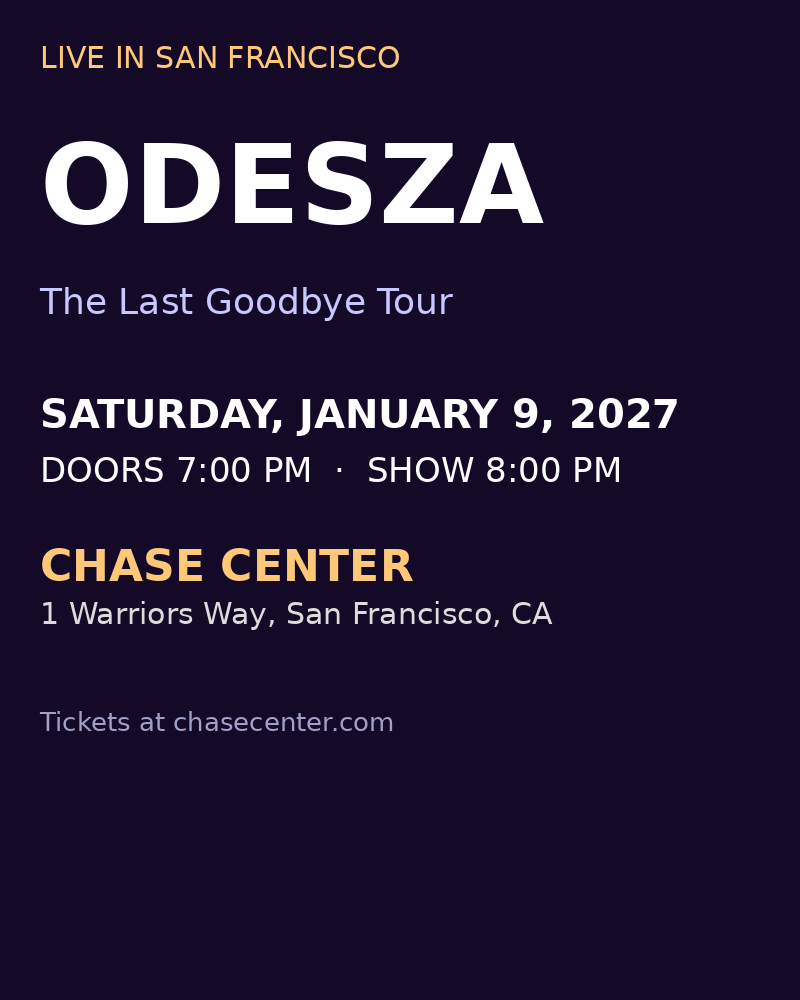
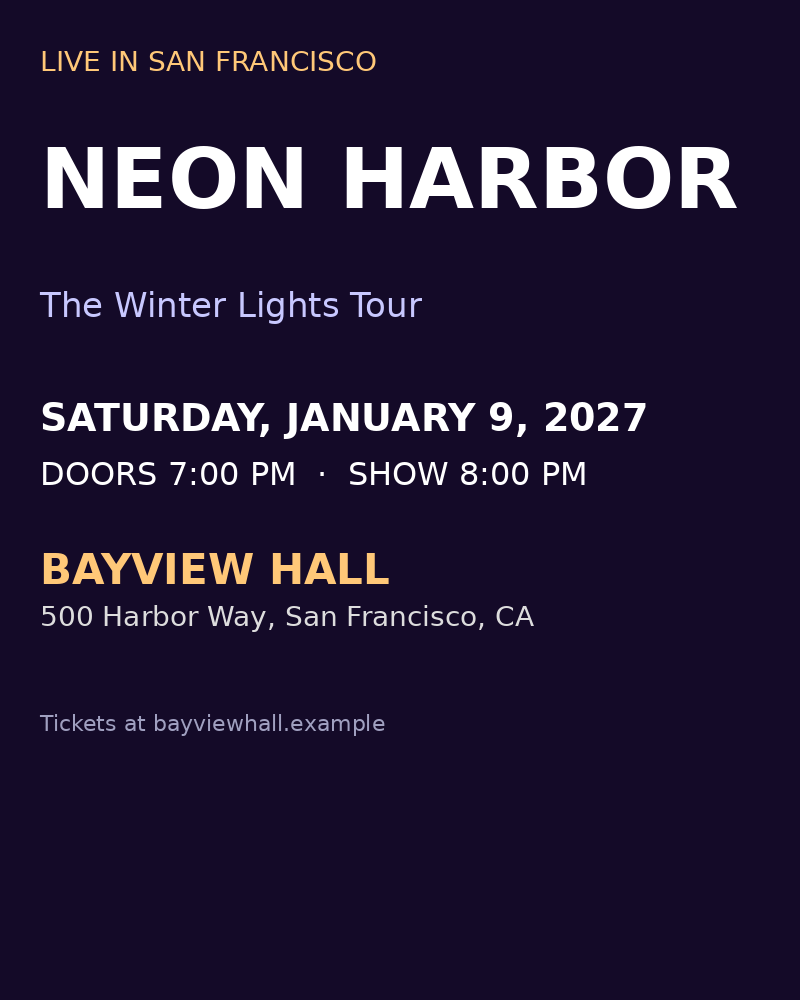
Swap real SF businesses for made-up ones in tests and eval images
The photo eval images and place tests keep their San Francisco setting,
with fictional shop, venue and band names in place of real ones.

Claude-Session: https://claude.ai/code/session_01NpPN23wRmb1EQWxJW59SVS

diff --git a/src/modules/assistant/check.ts b/src/modules/assistant/check.ts
@@ -596,7 +596,7 @@ check('web search is localised to home', search.user_location?.city === 'Springf
     name,
     note ?? '',
   ];
-  const payload = `)]}'\n${JSON.stringify([[null, null, null, null, 'Dessert', null, null, null, [entry('Tartine Bakery', '600 Guerrero St, SF', 37.7614, -122.4241, 'morning bun'), entry('Bi-Rite Creamery', '3692 18th St, SF', 37.7616, -122.4257)]]])}`;
+  const payload = `)]}'\n${JSON.stringify([[null, null, null, null, 'Dessert', null, null, null, [entry('Sunrise Bakery', '600 Guerrero St, SF', 37.7614, -122.4241, 'morning bun'), entry('Scoop Creamery', '3692 18th St, SF', 37.7616, -122.4257)]]])}`;
   const parsed = parseListResponse(payload);
   check('shared list: title and places parsed', parsed.title === 'Dessert' && parsed.places.length === 2, JSON.stringify(parsed.places[0]));
   check('shared list: coordinates, address, note, cid', parsed.places[0]!.location?.lat === 37.7614 && parsed.places[0]!.note === 'morning bun' && parsed.places[0]!.cid === '0x80858:0x1a2b' && !parsed.places[1]!.note);
@@ -626,9 +626,9 @@ check('web search is localised to home', search.user_location?.city === 'Springf
     const places = new SavedPlaces({ file: join(pdir, 'places.json'), listUrls: [] });
     places.store.data.lists = [{ url: 'u1', name: 'Dessert' }, { url: 'u2', name: 'Bars' }];
     places.store.data.places = [
-      { key: 'c1', list: 'Dessert', name: 'Tartine Bakery', location: { lat: 37.7614, lng: -122.4241 }, note: 'morning bun', source: 'list', details: hours },
-      { key: 'c2', list: 'Dessert', name: 'Bi-Rite Creamery', location: { lat: 37.7616, lng: -122.4257 }, source: 'list' },
-      { key: 'c3', list: 'Bars', name: 'Trick Dog', location: { lat: 37.759, lng: -122.4114 }, source: 'list', details: { ...hours, periods: [] } },
+      { key: 'c1', list: 'Dessert', name: 'Sunrise Bakery', location: { lat: 37.7614, lng: -122.4241 }, note: 'morning bun', source: 'list', details: hours },
+      { key: 'c2', list: 'Dessert', name: 'Scoop Creamery', location: { lat: 37.7616, lng: -122.4257 }, source: 'list' },
+      { key: 'c3', list: 'Bars', name: 'Lantern Bar', location: { lat: 37.759, lng: -122.4114 }, source: 'list', details: { ...hours, periods: [] } },
       { key: 'chat-1', list: 'Dessert', name: 'Dandelion Chocolate', location: { lat: 37.7609, lng: -122.4214 }, source: 'chat' },
     ];
     // "home" and a named area resolve from the remembered geocodes; no API here.
@@ -649,18 +649,18 @@ check('web search is localised to home', search.user_location?.city === 'Springf
     check('a full page says how to get the next', page1.includes('offset 1'), page1);
     const page2 = await find({ limit: 1, offset: 1 });
     check('offset pages on without repeating', !page2.includes(page1.split(' · ')[0]!) && page2.includes('offset 2'), page2);
-    const rest = await find({ exclude: ['tartine', 'BI-RITE'] });
-    check('exclude drops visited names', !rest.includes('Tartine') && !rest.includes('Bi-Rite') && rest.includes('Trick Dog'), rest);
+    const rest = await find({ exclude: ['sunrise', 'SCOOP'] });
+    check('exclude drops visited names', !rest.includes('Sunrise') && !rest.includes('Scoop') && rest.includes('Lantern Bar'), rest);
     check('offset past the end says so', (await find({ offset: 50 })).startsWith('Nothing past 50'));
 
     const dessert = await find({ list: 'des' });
-    check('a list prefix picks the list', dessert.includes('Tartine') && !dessert.includes('Trick Dog'), dessert);
-    check('the owner\'s note is searchable', (await find({ text: 'bun' })).startsWith('Tartine Bakery'));
+    check('a list prefix picks the list', dessert.includes('Sunrise') && !dessert.includes('Lantern Bar'), dessert);
+    check('the owner\'s note is searchable', (await find({ text: 'bun' })).startsWith('Sunrise Bakery'));
     const near = await find({ near: 'Mission Dolores', within_miles: 0.25 });
-    check('near a place: nearest first, radius applied', near.split('\n')[1]?.startsWith('Bi-Rite') === true && !near.includes('Trick Dog'), near);
+    check('near a place: nearest first, radius applied', near.split('\n')[1]?.startsWith('Scoop') === true && !near.includes('Lantern Bar'), near);
     check('distances are shown in miles', / \d+\.\d mi · /.test(near) && !near.includes(' km'), near);
     const open = await find({ open_now: true });
-    check('open now keeps only known-open spots and counts the unknown', open.includes('Tartine') && !open.includes('Bi-Rite') && open.includes('3 matching places left out'), open);
+    check('open now keeps only known-open spots and counts the unknown', open.includes('Sunrise') && !open.includes('Scoop') && open.includes('3 matching places left out'), open);
     check('removing a Google list entry is refused', fail('places_remove', { key: 'c1' }).includes('remove it there'));
     await tools.get('places_remove')!.run({ key: 'chat-1' });
     check('a chat-added place can be removed', !new SavedPlaces({ file: join(pdir, 'places.json'), listUrls: [] }).places().some((p) => p.key === 'chat-1'));
@@ -673,11 +673,11 @@ check('web search is localised to home', search.user_location?.city === 'Springf
     const sf = { lat: 37.7749, lng: -122.4194 };
     const fakeHit = (name: string, location: { lat: number; lng: number }) => ({ name, address: name, location, details: { placeId: name, fetchedAt: '' } });
     const withApi = places as unknown as { api?: { find: (q: string) => Promise<unknown> } };
-    withApi.api = { find: async (q) => (q.startsWith('F1rst') ? fakeHit('The F1rst Take, Salem', { lat: 37.3382, lng: -121.8863 }) : fakeHit('Bar Shoji, New Montgomery', { lat: 37.7867, lng: -122.3998 })) };
+    withApi.api = { find: async (q) => (q.startsWith('F1rst') ? fakeHit('The F1rst Take, Salem', { lat: 37.3382, lng: -121.8863 }) : fakeHit('Bar Hikari, New Montgomery', { lat: 37.7867, lng: -122.3998 })) };
     const farMatch = await places.add('Bars', 'F1rst Take', sf).then(() => '', (err: Error) => err.message);
     check('a match far from the area asked for is not saved', farMatch.startsWith('Not saved') && farMatch.includes('Salem') && !places.places().some((p) => p.name.includes('F1rst')), farMatch);
-    const nearMatch = await places.add('Bars', 'Shoji', sf);
-    check('a match in the area asked for is saved', nearMatch.name.startsWith('Bar Shoji'));
+    const nearMatch = await places.add('Bars', 'Hikari', sf);
+    check('a match in the area asked for is saved', nearMatch.name.startsWith('Bar Hikari'));
     // Seen in #travel, Nov 18: "check locations on each of those" had only web search, and three shops stayed unfound.
     const lookupApi = places as unknown as { api?: { lookup: (q: string) => Promise<unknown[]> } };
     lookupApi.api = {
@@ -1024,7 +1024,7 @@ check('web search is localised to home', search.user_location?.city === 'Springf
 
     const log = new ActivityLog(adir, LA);
     // 23:30 PST on the 14th and 00:30 PST on the 15th land in different files.
-    log.record({ at: '2026-11-15T07:30:00Z', kind: 'reply', outcome: 'ok', channel: 'food', ask: 'save tartine to dessert', tools: ['places_add'], usage: { ...noUsage('claude-haiku-5-5'), input: 20_000 } });
+    log.record({ at: '2026-11-15T07:30:00Z', kind: 'reply', outcome: 'ok', channel: 'food', ask: 'save sunrise to dessert', tools: ['places_add'], usage: { ...noUsage('claude-haiku-5-5'), input: 20_000 } });
     log.record({ at: '2026-11-15T08:30:00Z', kind: 'reply', outcome: 'error', channel: 'travel', ask: 'what time is my flight', error: 'overloaded', messageId: '123' });
     const trace = newTrace();
     traceTools(trace, [{ name: 'fetch_page', content: 'HTTP 403 Forbidden', isError: true }, { name: 'recall', content: 'ok' }]);
@@ -1039,7 +1039,7 @@ check('web search is localised to home', search.user_location?.city === 'Springf
     log.prune(new Date('2027-06-01T00:00:00Z'));
     check('activity: old days are pruned', (await import('node:fs')).readdirSync(adir).length === 0);
 
-    const all = [...back, { at: '2026-11-15T07:30:00Z', kind: 'reply' as const, outcome: 'ok', channel: 'food', ask: 'save tartine', costUsd: 0.002 }];
+    const all = [...back, { at: '2026-11-15T07:30:00Z', kind: 'reply' as const, outcome: 'ok', channel: 'food', ask: 'save sunrise', costUsd: 0.002 }];
     const usage = usageSummary(all, LA, 7);
     check('/usage: total, per day and priciest', usage.includes('last 7 days') && usage.includes('2026-11-15') && usage.includes('task "Kyoto hotels"'), usage);
     const digest = reviewDigest(

diff --git a/src/modules/assistant/vault.check.ts b/src/modules/assistant/vault.check.ts
@@ -32,8 +32,8 @@ const temp = () => new Vault(mkdtempSync(join(tmpdir(), 'squire-vault-')));
 {
   const vault = temp();
   try {
-    vault.write('Cafes/Blue Bottle.md', 'Good pour-over.\n');
-    vault.write('Cafes/Verve.md', '---\ntype: favourite\n---\nMine.\n');
+    vault.write('Cafes/Fogline.md', 'Good pour-over.\n');
+    vault.write('Cafes/Ridge Coffee.md', '---\ntype: favourite\n---\nMine.\n');
     vault.write('Travel/Japan/Tokyo food.md', 'Places to eat.\n');
     vault.write('Travel/Japan/Japan itinerary v2.md', '---\ntrip: somewhere else\n---\nDay 1.\n');
     vault.write('Travel/Chicago/Chicago.md', '# Chicago\n\nMy hub.\n');
@@ -48,8 +48,8 @@ const temp = () => new Vault(mkdtempSync(join(tmpdir(), 'squire-vault-')));
     const plan = planMigration(vault, LA);
     const lines = plan.map(describe);
     check('the migration is a dry run until applied', vault.list().every((p) => before.some(([b, t]) => b === p && t === vault.read(p))) && vault.list().length === before.length);
-    check('folders give a missing type', lines.some((l) => l.includes('Cafes/Blue Bottle.md: type: place, category: cafe')) && lines.some((l) => l.includes('proj-ideas/Squire.md: type: project')), lines.join('\n'));
-    check('a type the owner set is left alone', !lines.some((l) => l.includes('Cafes/Verve.md')));
+    check('folders give a missing type', lines.some((l) => l.includes('Cafes/Fogline.md: type: place, category: cafe')) && lines.some((l) => l.includes('proj-ideas/Squire.md: type: project')), lines.join('\n'));
+    check('a type the owner set is left alone', !lines.some((l) => l.includes('Cafes/Ridge Coffee.md')));
     check('trip notes link to their trip, unless set', lines.some((l) => l === 'add fields  Travel/Japan/Tokyo food.md: trip: [[Travel/Japan/Japan]]') && !lines.some((l) => l.includes('itinerary v2.md: trip')));
     check('a trip without a hub gets one, an existing hub only a type', lines.some((l) => l === 'create      Travel/Japan/Japan.md (index note)') && lines.some((l) => l === 'add fields  Travel/Chicago/Chicago.md: type: trip') && !lines.some((l) => l.startsWith('create      Travel/Chicago/Chicago.md')));
     check('typed loose notes move home, with a redirect if path-linked', lines.includes('move        notes/Jane.md -> People/Jane.md') && lines.some((l) => l.startsWith('move        notes/Bob.md -> People/Bob.md (redirect')));
@@ -57,10 +57,10 @@ const temp = () => new Vault(mkdtempSync(join(tmpdir(), 'squire-vault-')));
     const hub = plan.find((c) => c.kind === 'create' && c.path === 'Travel/Japan/Japan.md');
     check('the hub has a versions table', !!hub && hub.kind === 'create' && hub.content.includes('| [[Travel/Japan/Japan itinerary v2]] | v2 |') && hub.content.includes('type: trip'), hub && 'content' in hub ? hub.content : '');
 
-    vault.write('Cafes/Blue Bottle.md', '---\ncategory: bakery\n---\nGood pour-over.\n');
+    vault.write('Cafes/Fogline.md', '---\ncategory: bakery\n---\nGood pour-over.\n');
     const { done, skipped, log } = applyMigration(vault, plan, LA);
-    const bb = noteFields(vault.read('Cafes/Blue Bottle.md')!);
-    check('apply re-checks fields the owner set since', bb.type === 'place' && bb.category === 'bakery' && vault.read('Cafes/Blue Bottle.md')!.endsWith('Good pour-over.\n'));
+    const bb = noteFields(vault.read('Cafes/Fogline.md')!);
+    check('apply re-checks fields the owner set since', bb.type === 'place' && bb.category === 'bakery' && vault.read('Cafes/Fogline.md')!.endsWith('Good pour-over.\n'));
     check('apply moves and leaves redirects', vault.read('People/Jane.md') !== undefined && vault.read('notes/Jane.md') === undefined && noteFields(vault.read('notes/Bob.md') ?? '').type === 'redirect');
     check('apply keeps bodies and writes a log', vault.read('Travel/Japan/Tokyo food.md')!.endsWith('Places to eat.\n') && !!vault.read(log)?.includes('Ontology migration') && vault.read(ONTOLOGY_NOTE) !== undefined, `${done.length} done, ${skipped.join('; ')}`);
     const again = planMigration(vault, LA).map(describe);

diff --git a/src/modules/assistant/factory.check.ts b/src/modules/assistant/factory.check.ts
@@ -160,7 +160,7 @@ const gen = (calls: ToolCall[]): Generation => ({ stop: calls.length ? 'tool_use
         models.push({ model: m.model, effort: m.effort });
         systems.push(req.system);
         if (req.tools.some((t) => t.name === 'verdict')) return gen([{ id: 'v', name: 'verdict', input: { items: [{ pass: true, why: 'says so' }, { pass: false, why: 'made up a total' }] } }]);
-        return gen([{ id: 'f', name: 'finish_task', input: { outcome: 'done', report: 'Logged $12.50 at Blue Bottle.' } }]);
+        return gen([{ id: 'f', name: 'finish_task', input: { outcome: 'done', report: 'Logged $12.50 at Fogline.' } }]);
       },
     };
     const runner = new TaskRunner(new TaskStore(join(dir, 'tasks.json')), { llm: fake, model: 'big', fastModel: 'small', effort: 'low', timeZone: LA, reminders: new ReminderStore(join(dir, 'r.json'), LA), vault });
@@ -298,11 +298,11 @@ const gen = (calls: ToolCall[]): Generation => ({ stop: calls.length ? 'tool_use
         seenTools.push(req.tools.map((t) => t.name).join());
         const img = req.turns[0]?.role === 'user' ? (req.turns[0].content.find((x) => x.type === 'image') as { url: string; data?: string } | undefined) : undefined;
         const url = img?.data ? img.url : '';
-        if (url.includes('Coffee receipt')) return gen([{ id: 'e', name: 'log_expense', input: { date: '2026-11-18', merchant: 'Philz Coffee', amount: 20.38, currency: 'USD', category: 'dining', note: '' } }]);
-        if (url.includes('Ramen menu')) return req.turns.length === 1 ? gen([{ id: 'l', name: 'places_lists', input: {} }]) : gen([{ id: 'a', name: 'places_add', input: { query: 'Mensho Tokyo, 672 Geary St' } }]);
-        if (url.includes('Concert flyer')) return gen([{ id: 'n', name: 'save_note', input: { title: 'ODESZA', content: 'Jan 9', mode: 'create', folder: 'Squire/Inbox', sources: [] } }]);
+        if (url.includes('Coffee receipt')) return gen([{ id: 'e', name: 'log_expense', input: { date: '2026-11-18', merchant: 'Fogline Coffee', amount: 20.38, currency: 'USD', category: 'dining', note: '' } }]);
+        if (url.includes('Ramen menu')) return req.turns.length === 1 ? gen([{ id: 'l', name: 'places_lists', input: {} }]) : gen([{ id: 'a', name: 'places_add', input: { query: 'Noodle Lantern, 450 Polk St' } }]);
+        if (url.includes('Concert flyer')) return gen([{ id: 'n', name: 'save_note', input: { title: 'NEON HARBOR', content: 'Jan 9', mode: 'create', folder: 'Squire/Inbox', sources: [] } }]);
         if (url.includes('Recipe card')) return gen([{ id: 'r', name: 'save_note', input: { title: 'Banana Bread', content: '- 1/2 cup butter', mode: 'create', folder: 'Recipes/Pastries', sources: ['owner'] } }]);
-        return { ...gen([]), text: 'A night market at Pier 39 on Fridays. Which Friday should I add?' };
+        return { ...gen([]), text: 'A night market at Harbor Plaza on Fridays. Which Friday should I add?' };
       },
     };
     for (const p of vault.list('Factory/Evals/photo')) if (/Gym whiteboard/.test(p)) rmSync(vault.abs(p));

diff --git a/src/modules/assistant/photoEvals.ts b/src/modules/assistant/photoEvals.ts
@@ -96,9 +96,9 @@ type Seed = { name: string; fields: Record<string, unknown>; why: string };
  * tip, ask when the date can't be read). Real photos can be added beside them.
  */
 export const PHOTO_CASES: Seed[] = [
-  { name: 'Concert flyer', why: 'An event flyer goes on the calendar at doors time (the owner\'s preference), with the venue as the location.', fields: { input: 'Concert flyer.png', expect_tool: 'calendar_create_event', expect: ['odesza', '2027-01-09', '19:00', 'chase center'] } },
-  { name: 'Coffee receipt', why: 'A receipt is logged at the total paid, tax and tip included, on the receipt\'s date.', fields: { input: 'Coffee receipt.png', expect_tool: 'log_expense', expect: ['philz', '20.38', '2026-11-18'] } },
-  { name: 'Ramen menu', why: 'A menu with an address is a place to save, not a note.', fields: { input: 'Ramen menu.png', expect_tool: 'places_add', expect: ['mensho'] } },
+  { name: 'Concert flyer', why: 'An event flyer goes on the calendar at doors time (the owner\'s preference), with the venue as the location.', fields: { input: 'Concert flyer.png', expect_tool: 'calendar_create_event', expect: ['neon harbor', '2027-01-09', '19:00', 'bayview hall'] } },
+  { name: 'Coffee receipt', why: 'A receipt is logged at the total paid, tax and tip included, on the receipt\'s date.', fields: { input: 'Coffee receipt.png', expect_tool: 'log_expense', expect: ['fogline', '20.38', '2026-11-18'] } },
+  { name: 'Ramen menu', why: 'A menu with an address is a place to save, not a note.', fields: { input: 'Ramen menu.png', expect_tool: 'places_add', expect: ['noodle lantern'] } },
   { name: 'Recipe card', why: 'A recipe card is transcribed into Recipes with its own measurements.', fields: { input: 'Recipe card.png', expect_tool: 'save_note', expect: ['recipes', 'banana bread', '1/3 cup'] } },
   { name: 'Gym whiteboard', why: 'Sets on a whiteboard are logged one call per set, at the weights shown.', fields: { input: 'Gym whiteboard.png', expect_tool: 'training_log_set', expect: ['squat', '225'] } },
   { name: 'Poster with no date', why: '"If the date or time can\'t be read, ask for just that instead of guessing": a weekly market with no date.', fields: { input: 'Market poster.png', expect_tool: 'none', expect: [] } },

diff --git a/src/modules/assistant/codeEvals.ts b/src/modules/assistant/codeEvals.ts
@@ -178,7 +178,7 @@ const INBOX_CASES: Seed[] = [
   { name: 'Ticket transferred away', why: 'A ticket the owner sent to a friend should come off the calendar.', fields: { today: '2026-11-17', input: '[1] Subject: Transfer Accepted\nYou transferred 1 ticket for Spring Esports Showdown (Dec 5, 2026, 7:00 PM, Ontario, CA) to Taylor. Taylor has accepted the transfer.', expect_events: [], expect_cancelled: ['Esports Showdown @ 2026-12-05'] } },
   { name: 'Times in UTC', why: 'An event listed in UTC must be converted, not put on the calendar 8 hours off.', fields: { today: '2026-11-15', input: '[1] Subject: Registration confirmed: Hack Night\nYou\'re registered for Hack Night at the Convention Center, Portland. Wednesday Nov 18, 2026, 3:00 AM UTC – 6:00 AM UTC.', expect_events: ['Hack Night @ 2026-11-17T19:00'], expect_cancelled: [] } },
   { name: 'Coming-up reminder', why: '"Your event is coming up" reminders repeat orders that may have been refunded.', fields: { today: '2026-11-19', input: '[1] Subject: Your event is coming up!\nDon\'t forget: The Midnight Owls at Riverside Hall, Friday Nov 27. Get ready!', expect_events: [], expect_cancelled: [] } },
-  { name: 'Rescheduled show', why: 'The prompt says to cancel the old date and add the new one.', fields: { today: '2026-11-10', input: '[1] Subject: Date change for your tickets\nThe Odesza show at Chase Center on Nov 21, 2026 has been rescheduled to Saturday, January 9, 2027 at 8:00 PM. Your tickets are valid for the new date.', expect_events: ['Odesza @ 2027-01-09T20:00'], expect_cancelled: ['Odesza @ 2026-11-21'] } },
+  { name: 'Rescheduled show', why: 'The prompt says to cancel the old date and add the new one.', fields: { today: '2026-11-10', input: '[1] Subject: Date change for your tickets\nThe Neon Harbor show at Bayview Hall on Nov 21, 2026 has been rescheduled to Saturday, January 9, 2027 at 8:00 PM. Your tickets are valid for the new date.', expect_events: ['Neon Harbor @ 2027-01-09T20:00'], expect_cancelled: ['Neon Harbor @ 2026-11-21'] } },
 ];
 
 /** The brief cases: generic days, each aimed at a wording rule. */

diff --git a/src/modules/assistant/features.check.ts b/src/modules/assistant/features.check.ts
@@ -88,10 +88,10 @@ try {
   {
     const vault = new Vault(mkdtempSync(join(dir, 'exp-')));
     const path = appendExpense(vault, { date: '2026-11-18', merchant: 'Trader Joe|s', amount: 42.5, currency: 'USD', category: 'groceries', note: '' });
-    appendExpense(vault, { date: '2026-11-19', merchant: 'Tartine', amount: 18, currency: 'usd', category: 'dining', note: 'with Chris' });
+    appendExpense(vault, { date: '2026-11-19', merchant: 'Sunrise', amount: 18, currency: 'usd', category: 'dining', note: 'with Chris' });
     const note = vault.read(path) ?? '';
     check('expenses: one note per month', path === 'Finance/Expenses/2026-11.md', path);
-    check('expenses: header once, a row each', note.split('| Date |').length === 2 && note.includes('| 2026-11-18 | Trader Joe/s | $42.50 | groceries |') && note.includes('| 2026-11-19 | Tartine | $18.00 | dining | with Chris |'), note);
+    check('expenses: header once, a row each', note.split('| Date |').length === 2 && note.includes('| 2026-11-18 | Trader Joe/s | $42.50 | groceries |') && note.includes('| 2026-11-19 | Sunrise | $18.00 | dining | with Chris |'), note);
     const [tool] = expenseTools(vault, LA, () => new Date('2026-12-02T20:00:00Z'));
     const out = String(await tool!.run({ date: '', merchant: 'Shell', amount: 61.2, currency: 'USD', category: 'transport', note: '' }));
     check('expenses: no date means today, in a new month', out.includes('2026-12.md') && (vault.read('Finance/Expenses/2026-12.md') ?? '').includes('| 2026-12-02 | Shell | $61.20 |'), out);

diff --git a/src/modules/assistant/placesTools.ts b/src/modules/assistant/placesTools.ts
@@ -172,7 +172,7 @@ export function placesTools(
         input_schema: {
           type: 'object',
           properties: {
-            query: { type: 'string', description: 'The place, with enough to find it: "Blue Door flagship Harajuku Tokyo", "Tartine Bakery San Francisco".' },
+            query: { type: 'string', description: 'The place, with enough to find it: "Blue Door flagship Harajuku Tokyo", "Sunrise Bakery San Francisco".' },
             near: { type: 'string', description: 'City or area to search around ("Harajuku, Tokyo"), or empty string for near home.' },
           },
           required: ['query', 'near'],
@@ -204,7 +204,7 @@ export function placesTools(
           type: 'object',
           properties: {
             list: { type: 'string', description: 'An existing list that fits, e.g. "food".' },
-            query: { type: 'string', description: 'The place to look up, with enough to find it: "Tartine Bakery San Francisco".' },
+            query: { type: 'string', description: 'The place to look up, with enough to find it: "Sunrise Bakery San Francisco".' },
             near: { type: 'string', description: 'Area to search around ("home" or a place), or empty string for near home.' },
             note: { type: 'string', description: 'Why they saved it ("get the morning bun"), or empty string.' },
             new_list: { type: 'boolean', description: 'True only when the owner asked for a new list by that name.' },

diff --git a/README.md b/README.md
@@ -68,7 +68,7 @@ Chat replies use `claude-haiku-5-5` at low effort, for speed. When the assistant
 - **Tickets**: right-click (or long-press) any message → Apps → **Ticket**, and say what's wrong with it; or `/ticket note:<what's wrong> message:<link or ID>` (leave `message` out for Squire's latest message in the channel). Tickets keep the message, the ask it answered and your note in `data/tickets.json`. `npm run review:digest` lists open ones first, so the nightly review handles them, and closes each with `npm run tickets -- close <id> "<PR link, or why not>"`. `/tickets` lists the open ones.
 - **Obsidian notes**: "save this recipe to my notes" writes a note to `Squire/Inbox/` in your vault, or to any folder you name. It organises the whole vault as you ask: makes folders and subfolders, moves and renames notes and folders, and puts notes in Obsidian's trash. It can also search and read any note ("what's on my packing list?"), and never touches Obsidian's own dot-folders. Its own files live in `Squire/`: the inbox is its own scratch space, it leaves `Training/` and `Squire/Workouts/` to the training log, and every background task keeps its note, status and report in `Squire/Tasks/<date> <title>.md` (see Background tasks), and the Discord message says where.
 - **Gmail and Calendar** (optional): search and read mail, save drafts (it never sends), and read, create, change and delete calendar events. Setup is a Google Cloud OAuth client (Desktop app) with the Gmail and Calendar APIs enabled, then `npm run google:auth` once. `.env.example` has the steps. More Gmail accounts can be added for mail (`GOOGLE_EXTRA_ACCOUNTS=work`, then `npm run google:auth -- work`): searches cover every account unless one is named, and the morning brief checks each inbox with the same filter. Background tasks get read-only access. Email and invite text comes from strangers, so the assistant is told to treat it as information and never as instructions. Even so, a hostile email can try to steer it. That's why it can't send, and why unattended tasks can't write anything. The one exception is the brief adding booked events from the inbox: the worst a hostile email can do there is put up to five events on your calendar, each noting the email it came from.
-- **Saved places** (optional): your Google Maps lists (Food, Bars, Dessert, Cafes) back "dessert near Mission Dolores", "a cafe open now to work from" and "what's good in Vegas". Google has no API for saved lists. Each list is read from its share link (`MAPS_LIST_URLS`) through the unofficial endpoint the list's own web page uses, every 6 hours, into `data/places.json`. A failed read keeps the last good copy, and `places_lists` shows the error. With `GOOGLE_MAPS_API_KEY` (Places API (New)), each spot gets its hours, rating and price, looked up once and refreshed monthly. That makes "open now", "near <anywhere>", adding spots by chat ("save Tartine to dessert") and looking a shop up without saving it (`places_lookup`: "where's COOR's Seongsu store, and when's it open?") possible. Spots added by chat go into the existing list that fits (a new list only if you ask for one by name) and live in Squire's copy only, since Maps can't be written to; the reply carries the Maps link so saving it there is one tap. `/maps-todo` lists every spot still waiting to be saved in Maps, with its link, and each drops off on its own once the next sync finds it in the Maps list. When a calendar event today is more than 80 km from home (an all-day "Stay at a hotel in Chicago", say), the first assistant channel gets one morning message with your saved spots there.
+- **Saved places** (optional): your Google Maps lists (Food, Bars, Dessert, Cafes) back "dessert near Mission Dolores", "a cafe open now to work from" and "what's good in Vegas". Google has no API for saved lists. Each list is read from its share link (`MAPS_LIST_URLS`) through the unofficial endpoint the list's own web page uses, every 6 hours, into `data/places.json`. A failed read keeps the last good copy, and `places_lists` shows the error. With `GOOGLE_MAPS_API_KEY` (Places API (New)), each spot gets its hours, rating and price, looked up once and refreshed monthly. That makes "open now", "near <anywhere>", adding spots by chat ("save Sunrise to dessert") and looking a shop up without saving it (`places_lookup`: "where's COOR's Seongsu store, and when's it open?") possible. Spots added by chat go into the existing list that fits (a new list only if you ask for one by name) and live in Squire's copy only, since Maps can't be written to; the reply carries the Maps link so saving it there is one tap. `/maps-todo` lists every spot still waiting to be saved in Maps, with its link, and each drops off on its own once the next sync finds it in the Maps list. When a calendar event today is more than 80 km from home (an all-day "Stay at a hotel in Chicago", say), the first assistant channel gets one morning message with your saved spots there.
 
 - **Writes like you**: Squire reads your own messages in every channel, voice channel chat and thread it can see, in the servers you share with it, and writes its replies, task reports and the brief the way you text. Only messages you wrote are kept (`data/style.json`, the newest 20,000); nobody else's text is stored. Commands, code, link-only messages, pastes over 500 characters and anything with an email address or a long number are skipped, and mentions become "@someone". It runs once on its own, a few minutes after the first start: it reads every channel back to its start, then the task model reads a sample (mostly what you said to people, some of what you said to Squire) and writes a style guide with counted habits (capitals, punctuation, length, emoji), and picks about 30 of your messages, by number so they stay verbatim, as examples. Those go in the prompt; nothing is fine-tuned. `/voice show` shows the guide and examples, `/voice refresh` reads what's new and rebuilds (nothing reads or rebuilds on a timer), `/voice off` and `/voice on` switch it. It needs `DISCORD_ADMIN_ID`, so it knows whose messages are yours, and the bot needs View Channel and Read Message History wherever you want it to read. `ASSISTANT_VOICE=off` turns it off.
 - **Weekly review**: on Sunday (`WEEKLY_REVIEW_DAY`) the morning brief becomes a weekly review: today's sections, then the week ahead by day, the training week just ending (the app's numbers), what the week's replies cost, and up to three memories a recent conversation suggests are out of date.
